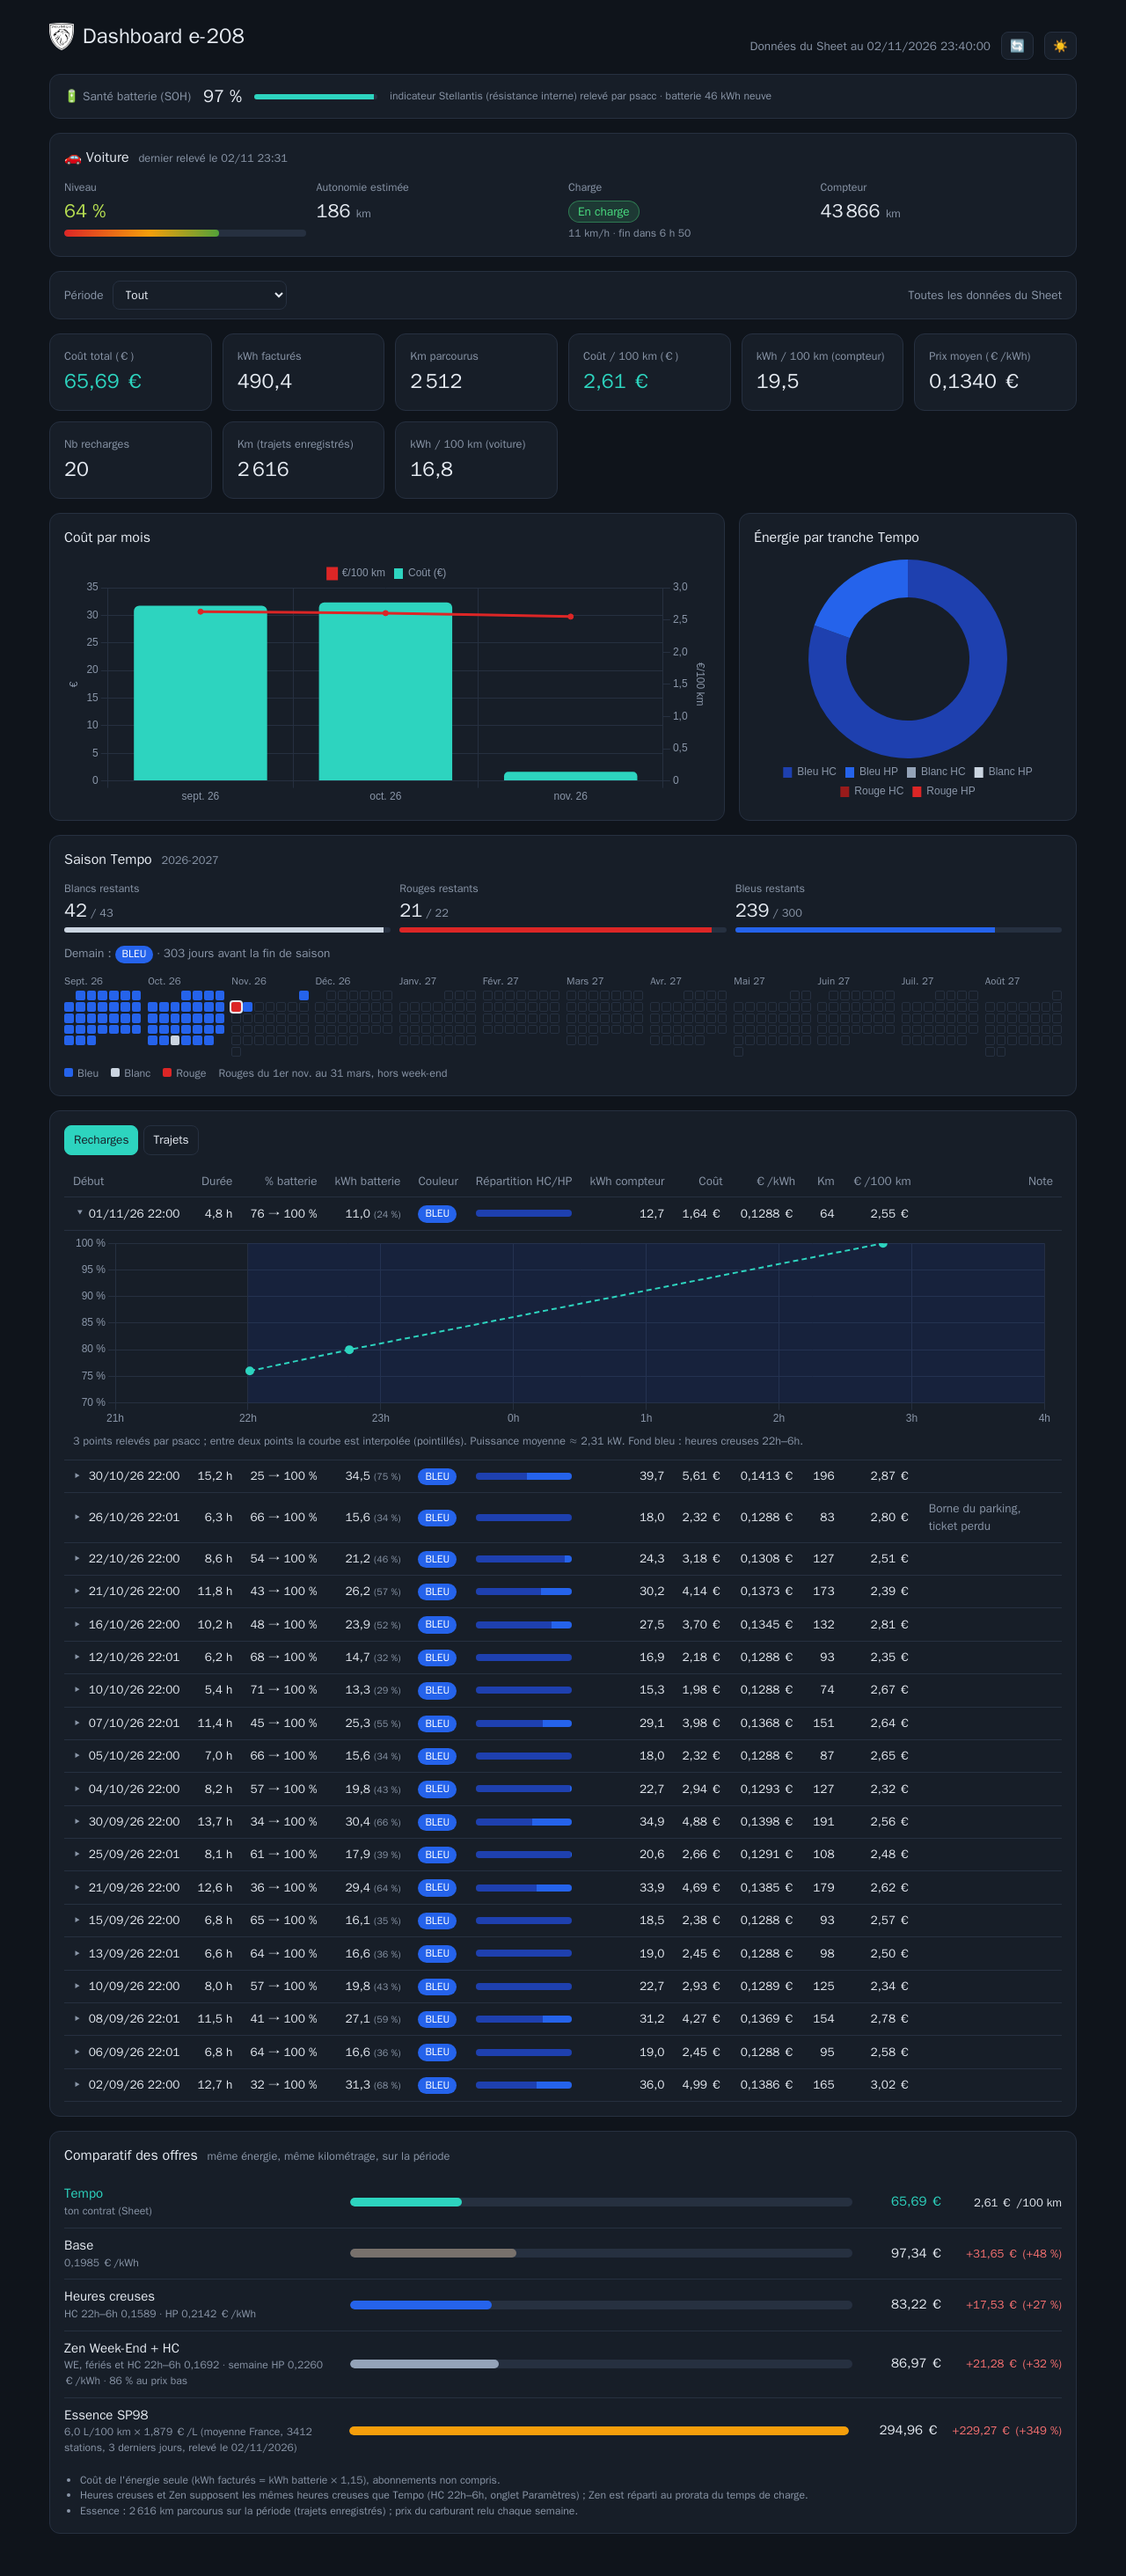
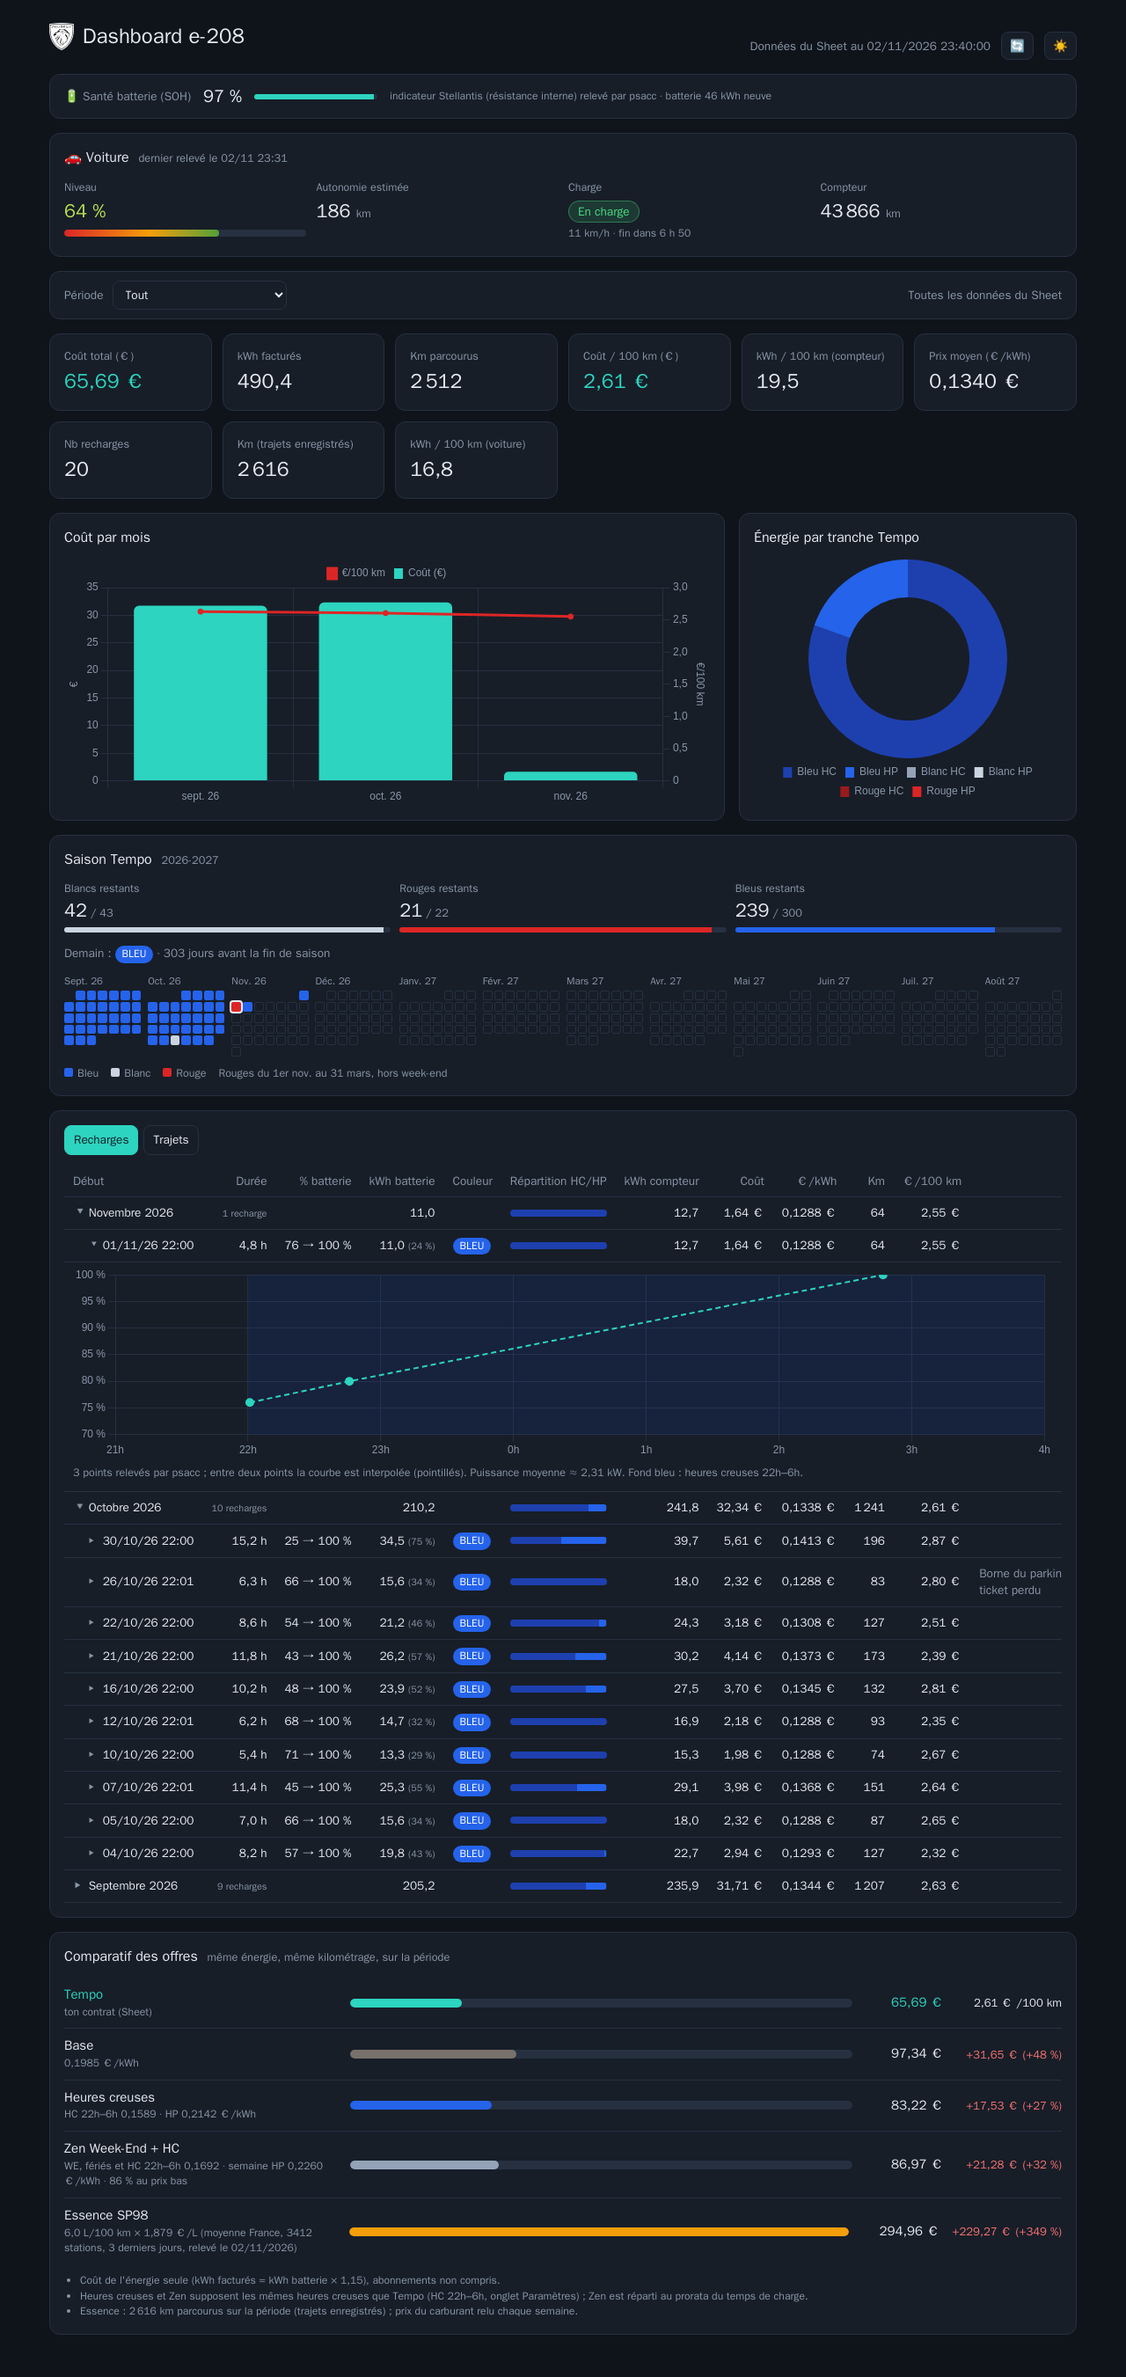
feat(dashboard): recharges regroupées par mois, dépliables
Une ligne par mois avec nombre de recharges, kWh batterie et compteur,
répartition HC/HP cumulée, coût, €/kWh, km et €/100 km ; un clic
déplie les recharges du mois (replié par défaut), puis un clic sur une
recharge déplie sa courbe. Code de regroupement partagé avec les
trajets, lignes du mois en retrait. README et captures mis à jour.

diff --git a/web/static/index.html b/web/static/index.html
@@ -135,6 +135,7 @@
   tr.month-row td { font-weight: 600; }
   tr.month-row td:first-child { text-transform: capitalize; }
   tr.month-row td small { font-weight: 400; }
+  tr[data-in] > td:first-child { padding-left: 26px; }
   tr.curve-row > td { padding: 0 0 12px; text-align: left; white-space: normal; }
   .curve { position: sticky; left: 0; padding: 4px 10px 0; }
   .curve .plot { position: relative; height: 220px; }
@@ -238,7 +239,7 @@ const TRANCHE_COLORS = ["--bleu-hc", "--bleu", "--blanc-hc", "--blanc", "--rouge
 const QUOTA = { BLEU: "Bleus", BLANC: "Blancs", ROUGE: "Rouges" };
 let data = null, charts = {}, currentTab = "charges", view = null;
 const openCurves = new Set();  // recharges dépliées, conservées d'un rendu à l'autre
-const openMonths = new Set();  // mois de trajets dépliés
+const openMonths = { charges: new Set(), trips: new Set() };  // mois dépliés, par tableau
 
 // ------------------------------------------------------------------ période
 function seasonStart(d) { return new Date(d.getMonth() >= 8 ? d.getFullYear() : d.getFullYear() - 1, 8, 1); }
@@ -493,7 +494,7 @@ function curvePoints(r) {
 function toggleCurve(tr) {
   const open = tr.getAttribute("aria-expanded") !== "true", row = tr.nextElementSibling, id = tr.dataset.id;
   tr.setAttribute("aria-expanded", open);
-  row.hidden = !open;
+  row.hidden = !open || tr.hidden;
   open ? openCurves.add(id) : openCurves.delete(id);
   const key = "curve-" + id;
   if (!open) { charts[key]?.destroy(); delete charts[key]; row.cells[0].innerHTML = ""; return; }
@@ -557,6 +558,40 @@ function drawCurve(key, canvas, hint, r, { real, pts }) {
 }
 
 // ------------------------------------------------------------------ tableaux
+// Lignes regroupées par mois (du plus récent au plus ancien)
+function byMonth(rows, col) {
+  const months = new Map();
+  rows.forEach(r => { const m = String(r[col]).slice(0, 7); months.has(m) || months.set(m, []); months.get(m).push(r); });
+  return [...months];
+}
+
+const monthLabel = m => new Date(m + "-01T12:00").toLocaleDateString("fr-FR", { month: "long", year: "numeric" });
+const monthHead = (m, title) => `<tr class="fold month-row" data-month="${m}" aria-expanded="false" title="${title}">
+  <td><span class="chev">▸</span> ${monthLabel(m)}</td>`;
+
+// Barre de répartition HC/HP à partir des kWh des 6 tranches
+function slotBar(parts) {
+  const total = parts.reduce((a, b) => a + (b || 0), 0) || 1;
+  return `<div class="bar">${parts.map((p, i) => p > 0 ? `<span style="width:${100 * p / total}%;background:${css(TRANCHE_COLORS[i])}" title="${TRANCHES[i]} : ${fr(p, 2)} kWh"></span>` : "").join("")}</div>`;
+}
+
+// Dépliage des mois : les lignes data-in du mois, et pour les recharges la courbe si elle était ouverte
+function bindMonths(el, open) {
+  el.querySelectorAll("tr.month-row").forEach(tr => {
+    const toggle = show => {
+      tr.setAttribute("aria-expanded", show);
+      el.querySelectorAll(`tr[data-in="${tr.dataset.month}"]`).forEach(x => {
+        x.hidden = !show;
+        if (x.nextElementSibling?.classList.contains("curve-row"))
+          x.nextElementSibling.hidden = !show || x.getAttribute("aria-expanded") !== "true";
+      });
+      show ? open.add(tr.dataset.month) : open.delete(tr.dataset.month);
+    };
+    tr.addEventListener("click", () => toggle(tr.getAttribute("aria-expanded") !== "true"));
+    if (open.has(tr.dataset.month)) toggle(true);
+  });
+}
+
 function renderTable() {
   const el = document.getElementById("table");
   Object.keys(charts).filter(k => k.startsWith("curve-")).forEach(k => { charts[k].destroy(); delete charts[k]; });
@@ -566,46 +601,39 @@ function renderTable() {
     el.innerHTML = `<table><thead><tr><th>Début</th><th>Durée</th><th>% batterie</th><th>kWh batterie</th>
       <th>Couleur</th><th>Répartition HC/HP</th><th>kWh compteur</th><th>Coût</th>
       <th>€/kWh</th><th>Km</th><th>€/100 km</th><th>Note</th></tr></thead><tbody>${
-      rows.map(r => {
-        const parts = r.slice(C.slots, C.slots + 6).map(Number), total = parts.reduce((a, b) => a + (b || 0), 0) || 1;
-        const bar = parts.map((p, i) => p > 0 ? `<span style="width:${100 * p / total}%;background:${css(TRANCHE_COLORS[i])}" title="${TRANCHES[i]} : ${fr(p, 2)} kWh"></span>` : "").join("");
-        return `<tr class="fold" data-id="${esc(r[0])}" aria-expanded="false" title="Afficher la courbe de charge"><td><span class="chev">▸</span> ${dt(r[C.start])}</td><td>${fr(r[C.duration], 1)} h</td><td>${fr(r[3], 0)} → ${fr(r[4], 0)} %</td>
+      byMonth(rows, C.start).map(([m, list]) => {
+        const cost = sum(list, C.cost), kwh = sum(list, C.kwh), km = sum(list, C.km);
+        const eur100 = ratio(sum(list.filter(r => num(r[C.km]) > 0), C.cost), km, 100), eurKwh = ratio(cost, kwh);
+        const slots = TRANCHES.map((_, i) => sum(list, C.slots + i));
+        return monthHead(m, "Afficher les recharges du mois") + `<td><small>${list.length} recharge${list.length > 1 ? "s" : ""}</small></td><td></td>
+          <td>${fr(sum(list, C.kwhBat), 1)}</td><td></td><td class="text">${slotBar(slots)}</td><td>${fr(kwh, 1)}</td><td>${eur(cost)}</td>
+          <td>${eurKwh === "" ? "–" : eur(eurKwh, 4)}</td><td>${fr(km, 0)}</td><td>${eur100 === "" ? "–" : eur(eur100)}</td><td></td></tr>` +
+        list.map(r => `<tr class="fold" data-in="${m}" data-id="${esc(r[0])}" aria-expanded="false" title="Afficher la courbe de charge" hidden>
+          <td><span class="chev">▸</span> ${dt(r[C.start])}</td><td>${fr(r[C.duration], 1)} h</td><td>${fr(r[3], 0)} → ${fr(r[4], 0)} %</td>
           <td>${fr(r[C.kwhBat], 1)}${data.battery_kwh && num(r[C.kwhBat]) ? ` <small>(${fr(100 * num(r[C.kwhBat]) / data.battery_kwh, 0)} %)</small>` : ""}</td><td class="text">${r[C.color] ? `<span class="pill ${esc(r[C.color])}">${esc(r[C.color])}</span>` : "–"}</td>
-          <td class="text"><div class="bar">${bar}</div></td><td>${fr(r[C.kwh], 1)}</td><td>${eur(r[C.cost])}</td>
+          <td class="text">${slotBar(r.slice(C.slots, C.slots + 6).map(Number))}</td><td>${fr(r[C.kwh], 1)}</td><td>${eur(r[C.cost])}</td>
           <td>${eur(r[C.eurKwh], 4)}</td><td>${fr(r[C.km], 0)}</td><td>${eur(r[C.eur100])}</td><td class="note">${esc(r[C.note])}</td></tr>
-          <tr class="curve-row" hidden><td colspan="12"></td></tr>`;
+          <tr class="curve-row" hidden><td colspan="12"></td></tr>`).join("");
       }).join("")}</tbody></table>`;
-    el.querySelectorAll("tr.fold").forEach(tr => {
+    bindMonths(el, openMonths.charges);
+    el.querySelectorAll("tr.fold[data-id]").forEach(tr => {
       tr.addEventListener("click", () => toggleCurve(tr));
       if (openCurves.has(tr.dataset.id)) toggleCurve(tr);
     });
   } else {
     const rows = [...view.trips].reverse();
     if (!rows.length) { el.innerHTML = '<div class="empty">Aucun trajet sur la période</div>'; return; }
-    // Un groupe repliable par mois (du plus récent au plus ancien), avec les totaux du mois
-    const months = new Map();
-    rows.forEach(r => { const m = String(r[T.start]).slice(0, 7); months.has(m) || months.set(m, []); months.get(m).push(r); });
     el.innerHTML = `<table><thead><tr><th>Début</th><th>Fin</th><th>Distance</th><th>Conso batterie</th>
       <th>kWh/100 km</th><th>Compteur fin</th></tr></thead><tbody>${
-      [...months].map(([m, list]) => {
+      byMonth(rows, T.start).map(([m, list]) => {
         const kwh100 = ratio(sum(list, T.kwh), sum(list.filter(r => num(r[T.kwh]) > 0), T.km), 100);
         const odo = Math.max(...list.map(r => num(r[T.odo])));
-        return `<tr class="fold month-row" data-month="${m}" aria-expanded="false" title="Afficher les trajets du mois">
-          <td><span class="chev">▸</span> ${new Date(m + "-01T12:00").toLocaleDateString("fr-FR", { month: "long", year: "numeric" })}</td>
-          <td><small>${list.length} trajet${list.length > 1 ? "s" : ""}</small></td><td>${fr(sum(list, T.km), 1)} km</td>
+        return monthHead(m, "Afficher les trajets du mois") + `<td><small>${list.length} trajet${list.length > 1 ? "s" : ""}</small></td><td>${fr(sum(list, T.km), 1)} km</td>
           <td>${fr(sum(list, T.kwh), 2)} kWh</td><td>${kwh100 === "" ? "–" : fr(kwh100, 1)}</td><td>${odo ? fr(odo, 0) + " km" : "–"}</td></tr>` +
           list.map(r => `<tr data-in="${m}" hidden><td>${dt(r[T.start])}</td><td>${dt(r[T.end])}</td>
             <td>${fr(r[T.km], 1)} km</td><td>${fr(r[T.kwh], 2)} kWh</td><td>${fr(r[T.kwh100], 1)}</td><td>${fr(r[T.odo], 0)} km</td></tr>`).join("");
       }).join("")}</tbody></table>`;
-    el.querySelectorAll("tr.month-row").forEach(tr => {
-      const toggle = open => {
-        tr.setAttribute("aria-expanded", open);
-        el.querySelectorAll(`tr[data-in="${tr.dataset.month}"]`).forEach(x => { x.hidden = !open; });
-        open ? openMonths.add(tr.dataset.month) : openMonths.delete(tr.dataset.month);
-      };
-      tr.addEventListener("click", () => toggle(tr.getAttribute("aria-expanded") !== "true"));
-      if (openMonths.has(tr.dataset.month)) toggle(true);
-    });
+    bindMonths(el, openMonths.trips);
   }
 }
 

diff --git a/README.md b/README.md
@@ -114,7 +114,8 @@ Puis ouvrir `http://<LAN_IP>:8080`. La page affiche ce que le Sheet a calculé, 
 * **Santé batterie (SOH)**, en haut de page : dernier SOH relevé par psacc (champ « resistance » de l'API Stellantis, qui ne mesure pas forcément la capacité restante), lu sur l'API web de psacc par le réseau Docker interne (`/get_vehicles` et `/battery/soh/<VIN>`, lecture seule, sans appel à Stellantis), relu toutes les heures.
 * **Voiture**, sous le SOH : niveau de batterie (couleur du rouge au vert selon la charge), autonomie estimée, état de charge (en charge, terminée, arrêtée, échec, débranchée) et compteur. Valeurs du dernier envoi de la voiture, lues dans le cache de psacc (`/get_vehicleinfo/<VIN>?from_cache=1` : la voiture n'est jamais réveillée), relues toutes les 5 min.
 * **Trajets par mois**, dans le tableau des trajets : une ligne par mois (du plus récent au plus ancien) avec le nombre de trajets, les km, les kWh, le kWh/100 km et le dernier compteur ; un clic déplie les trajets du mois (replié par défaut).
-* **Courbe de charge**, dans le tableau des recharges : un clic sur une ligne déplie le graphique du niveau de batterie selon l'heure, heures creuses en fond (replié par défaut). Les points viennent de la table `battery_curve` de psacc, lue sur une copie de `info.db` (`psacc/config` monté en lecture seule, relu toutes les 5 min). La voiture n'envoie que 2 ou 3 points par charge lente (début, ~45 min, fin), donc la courbe est interpolée entre eux. Une recharge saisie à la main est tracée en droite du début à la fin. Le survol donne la puissance moyenne entre deux points (si `BATTERY_KWH` est renseigné).
+* **Recharges par mois**, dans le tableau des recharges : une ligne par mois avec le nombre de recharges, les kWh batterie et compteur, la répartition HC/HP, le coût, le €/kWh, les km et le €/100 km ; un clic déplie les recharges du mois (replié par défaut).
+* **Courbe de charge**, dans le tableau des recharges : un clic sur une recharge déplie le graphique du niveau de batterie selon l'heure, heures creuses en fond (replié par défaut). Les points viennent de la table `battery_curve` de psacc, lue sur une copie de `info.db` (`psacc/config` monté en lecture seule, relu toutes les 5 min). La voiture n'envoie que 2 ou 3 points par charge lente (début, ~45 min, fin), donc la courbe est interpolée entre eux. Une recharge saisie à la main est tracée en droite du début à la fin. Le survol donne la puissance moyenne entre deux points (si `BATTERY_KWH` est renseigné).
 * **Saison Tempo** (1er septembre → 31 août) : jours blancs, rouges et bleus restants, couleur du lendemain et calendrier de la saison, depuis [api-couleur-tempo.fr](https://www.api-couleur-tempo.fr) (cache d'une heure).
 * **Comparatif des offres**, pour la même énergie (kWh facturés de la période) et hors abonnements. Une offre dont le prix n'est pas renseigné est signalée « à renseigner » :
   * **Tempo** : ton coût réel, calculé par le Sheet ;
